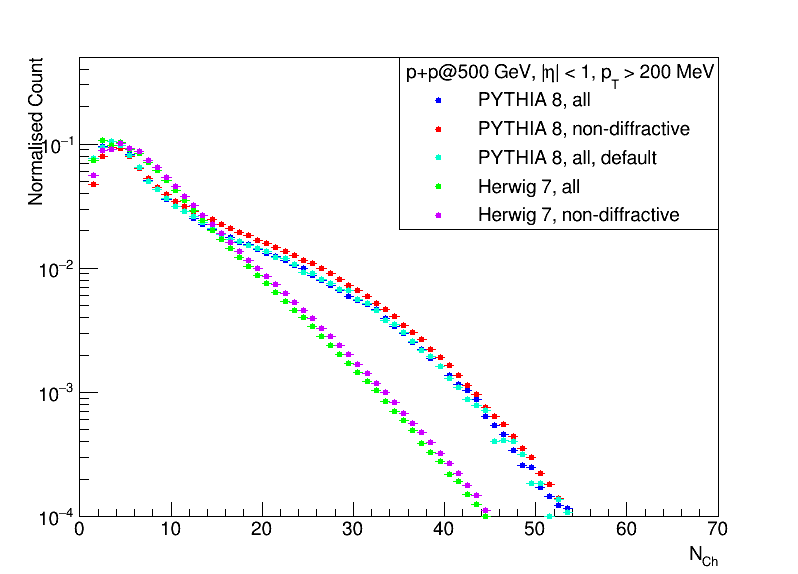
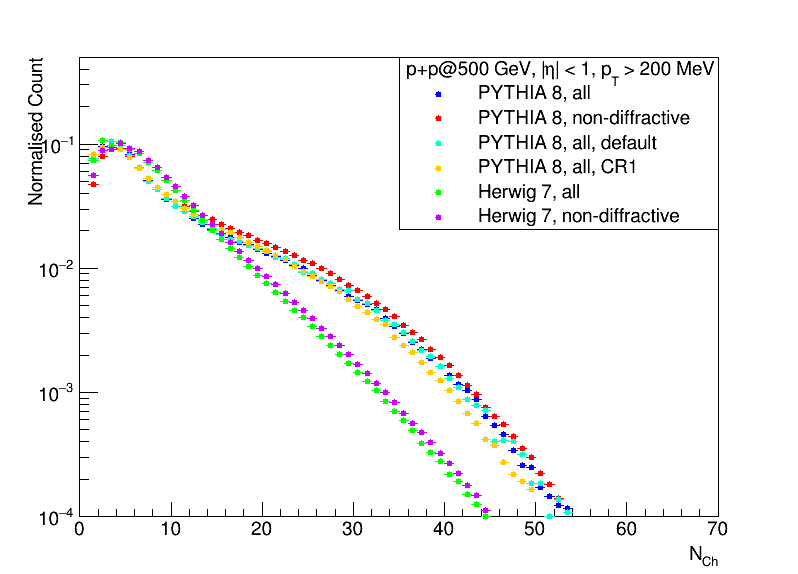
Add PYTHIA CR1 to ROOT script

diff --git a/ROOT/scripts/nchar_MB.C b/ROOT/scripts/nchar_MB.C
@@ -30,6 +30,7 @@ void nchar_MB()
 	TFile *filePY_MB_all = TFile::Open("../data/PY_MinBias_all.root");
 	TFile *filePY_MB_ND = TFile::Open("../data/PY_MinBias_ND.root");
 	TFile *filePY_MB_all_clear = TFile::Open("../data/PY_MinBias_all_clear.root");
+	TFile *filePY_MB_all_CR1 = TFile::Open("../data/PY_MinBias_all_CR1.root");
 	TFile *fileHE_MB_all = TFile::Open("../data/HE_MinBias_all.root");
 	TFile *fileHE_MB_ND = TFile::Open("../data/HE_MinBias_ND.root");
 
@@ -37,6 +38,7 @@ void nchar_MB()
 	TTreeReader readPY_MB_all("tree", filePY_MB_all);
 	TTreeReader readPY_MB_ND("tree", filePY_MB_ND);
 	TTreeReader readPY_MB_all_clear("tree", filePY_MB_all_clear);
+	TTreeReader readPY_MB_all_CR1("tree", filePY_MB_all_CR1);
 	TTreeReader readHE_MB_all("tree", fileHE_MB_all);
 	TTreeReader readHE_MB_ND("tree", fileHE_MB_ND);
 
@@ -44,6 +46,7 @@ void nchar_MB()
 	TTreeReaderValue<Int_t> PY_nChar_all(readPY_MB_all, "nChar");
 	TTreeReaderValue<Int_t> PY_nChar_ND(readPY_MB_ND, "nChar");
 	TTreeReaderValue<Int_t> PY_nChar_all_clear(readPY_MB_all_clear, "nChar");
+	TTreeReaderValue<Int_t> PY_nChar_all_CR1(readPY_MB_all_CR1, "nChar");
 	TTreeReaderValue<Int_t> HE_nChar_all(readHE_MB_all, "nChar");
 	TTreeReaderValue<Int_t> HE_nChar_ND(readHE_MB_ND, "nChar");
 
@@ -91,6 +94,21 @@ void nchar_MB()
 
 	// Normalise PYTHIA all histogram default
 	PY_all_clear->Scale(1/(PY_all_clear->GetEntries()));
+
+	// Load nChar values for PYTHIA all with colour reconnect 1
+	TH1D *PY_all_CR1 = new TH1D("PY_all_CR1", "", 70, 0, 70);
+	while(readPY_MB_all_CR1.Next())
+	{
+		if (*PY_nChar_all_CR1 == 0)
+			continue;
+		else
+		{
+			PY_all_CR1->Fill(*PY_nChar_all_CR1);
+		}
+	}
+
+	// Normalise PYTHIA all histogram with colour reconnect 1
+	PY_all_CR1->Scale(1/(PY_all_CR1->GetEntries()));
 
 	// Load nChar for Herwig all
 	TH1D *HE_all = new TH1D("HE_all", "", 70, 0, 70);
@@ -164,6 +182,16 @@ void nchar_MB()
 
 	PY_all_clear->SetStats(kFALSE);
 
+	// Format PYTHIA all default hist.
+	PY_all_CR1->SetMarkerStyle(20);
+	PY_all_CR1->SetMarkerSize(.75);
+	PY_all_CR1->SetMarkerColor(kOrange);
+	PY_all_CR1->SetLineColor(kOrange);
+
+	PY_all_CR1->GetYaxis()->SetRangeUser(0.0001,0.5);
+
+	PY_all_CR1->SetStats(kFALSE);
+
 	// Format Herwig all hist.
 	HE_all->SetMarkerStyle(20);
 	HE_all->SetMarkerSize(.75);
@@ -189,6 +217,7 @@ void nchar_MB()
 	PY_all->Draw("P");
 	PY_ND->Draw("P same");
 	PY_all_clear->Draw("P same");
+	PY_all_CR1->Draw("P same");
 	HE_all->Draw("P same");
 	HE_ND->Draw("P same");
 	
@@ -199,6 +228,7 @@ void nchar_MB()
 	leg->AddEntry(PY_all, "PYTHIA 8, all", "p");
 	leg->AddEntry(PY_ND, "PYTHIA 8, non-diffractive", "p");
 	leg->AddEntry(PY_all_clear, "PYTHIA 8, all, default", "p");
+	leg->AddEntry(PY_all_CR1, "PYTHIA 8, all, CR1", "p");
 	leg->AddEntry(HE_all, "Herwig 7, all", "p");
 	leg->AddEntry(HE_ND, "Herwig 7, non-diffractive", "p");
 
